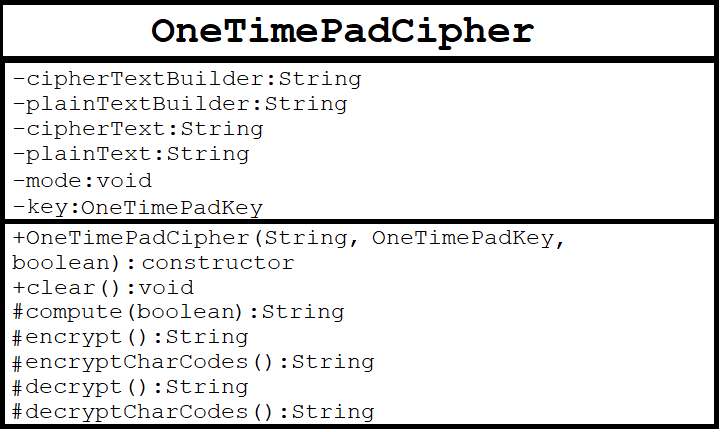
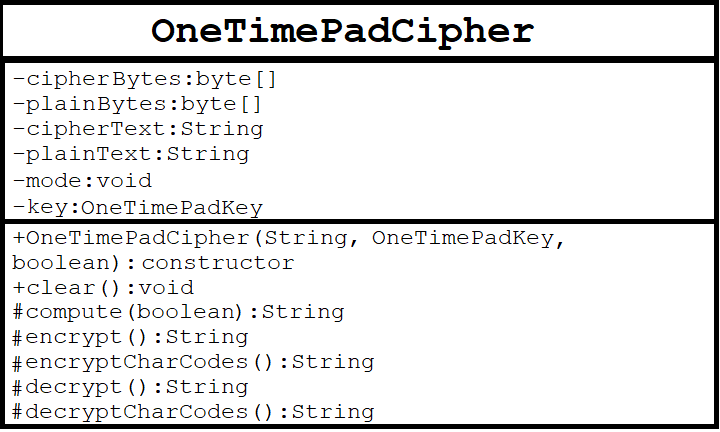
Updated the OneTimePadCipher diagram to include a few changes.

Changed region(s): [[0.1222, 0.1505, 0.5194, 0.2708]]

diff --git a/Encryptor Decryptor File Encryption/src/Encryptor Decryptor File Ecryption/CipherKeys/OneTimePadKey.java b/Encryptor Decryptor File Encryption/src/Encryptor Decryptor File Ecryption/CipherKeys/OneTimePadKey.java
@@ -20,7 +20,7 @@ public class OneTimePadKey
 		createKey();
 	}
 	
-	public OneTimePadKey(String key, int textLength)
+	public OneTimePadKey(byte[] key, int textLength)
 	{
 		this.key = key;
 		this.textLength = textLength;
@@ -29,15 +29,11 @@ public class OneTimePadKey
 	private void createKey()
 	{
 		SecureRandom random = new SecureRandom();
-		String 
-		String keyBuilder = "";
-		for(int index = 0; index < textLength; index++) 
-		{
-			keyBuilder = keyBuilder + Character.toChars(random.);
-		}
+		key = new byte[textLength];
+		random.nextBytes(key);
 	}
 	
-	public String getKey()
+	public byte[] getKey()
 	{
 		return key;
 	}
